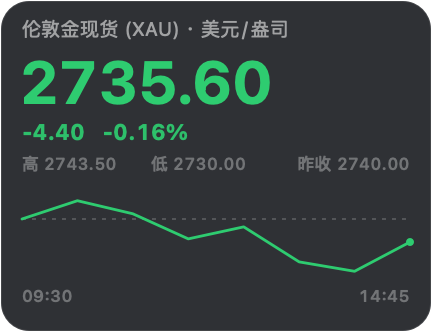
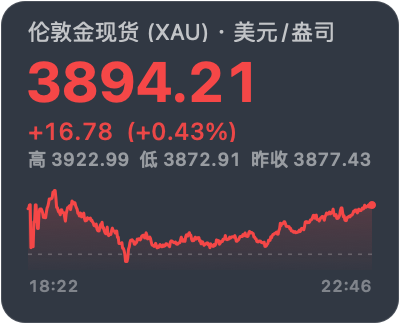
fix(release): restore Universal2 Mac DMG and live README previews

diff --git a/tools/render_previews.py b/tools/render_previews.py
@@ -1,16 +1,18 @@
-"""Render the production Mac view using explicitly illustrative data."""
+"""Render README previews from live quotes + today's real intraday points."""
 import os
 import sys
-import tempfile
 from pathlib import Path
 from types import SimpleNamespace
+
 REPO_ROOT = Path(__file__).resolve().parent.parent
 sys.path.insert(0, str(REPO_ROOT))
+
 from AppKit import NSApplication, NSBitmapImageFileTypePNG, NSBitmapImageRep, NSGraphicsContext, NSAffineTransform
 from Foundation import NSMakeRect
-from core.config import DEFAULT_CONFIG
-from core.pricing import QuoteData
-from core.storage import record_price_point
+from core.config import DEFAULT_CONFIG, get_app_data_dir
+from core.constants import SYMBOL_XAU_USD, SYMBOL_ZS_JCJ
+from core.pricing import default_engine
+from core.storage import apply_frozen_basis, load_today_points
 from mac.main import GoldCardView, calc_window_height
 
 
@@ -30,33 +32,34 @@ def render_to_png(view, output_path, scale=2):
         NSGraphicsContext.restoreGraphicsState()
     data = rep.representationUsingType_properties_(NSBitmapImageFileTypePNG, {})
     assert data.writeToFile_atomically_(str(output_path), True)
-    print(f"Example data / production view: {output_path} ({rep.pixelsWide()}x{rep.pixelsHigh()})")
+    print(f"Live preview: {output_path} ({rep.pixelsWide()}x{rep.pixelsHigh()})")
 
 
 def main():
+    # 使用本机真实分时目录，保证走势是当天实际采样
+    os.environ.pop("GOLDTICKER_DATA_DIR", None)
+    data_dir = get_app_data_dir()
     NSApplication.sharedApplication()
-    with tempfile.TemporaryDirectory(prefix="goldticker-previews-") as tmp:
-        os.environ["GOLDTICKER_DATA_DIR"] = tmp
-        import datetime as _dt
-        import time as _time
-        # 示例数据显式标注为非实时：采样时刻为今日 09:30 起每 45 分钟（本地时区）
-        base = _dt.datetime.combine(_dt.date.today(), _dt.time(9, 30))
-        start_ts = int(_time.mktime(base.timetuple())) * 1000
-        step_ms = 45 * 60 * 1000
-        for symbol, stem, values, prev in (
-            ("zs_jcj", "zs", [868, 869.2, 867.5, 870.1, 872.8, 871.2, 873, 871.5], 868),
-            ("xau_usd", "intl", [2740, 2743.5, 2741, 2736.2, 2738.5, 2731.8, 2730, 2735.6], 2740)):
-            for i, value in enumerate(values):
-                record_price_point(value, symbol, ts_ms=start_ts + i * step_ms)
-            quote = QuoteData(symbol=symbol, price=values[-1], prev_close=prev, open_price=values[1],
-                high=max(values), low=min(values), change=values[-1]-prev,
-                change_pct=(values[-1]-prev)/prev*100, time_str="14:45", source_id="example", source_name="Example data")
-            for lang in ("zh", "en"):
-                cfg = dict(DEFAULT_CONFIG, language=lang, symbol=symbol)
-                view = GoldCardView.alloc().initWithFrame_(NSMakeRect(0, 0, cfg["width"], calc_window_height(cfg)))
-                view.set_controller(SimpleNamespace(config=cfg, current_quote=quote))
-                output = REPO_ROOT / "docs" / f"preview-{stem}{'-en' if lang == 'en' else ''}.png"
-                render_to_png(view, output)
+
+    targets = (
+        (SYMBOL_ZS_JCJ, "zs"),
+        (SYMBOL_XAU_USD, "intl"),
+    )
+    for symbol, stem in targets:
+        pts = load_today_points(symbol, data_dir=data_dir)
+        if len(pts) < 2:
+            raise SystemExit(f"Need >=2 real intraday points for {symbol}, got {len(pts)} in {data_dir}")
+        quote = default_engine.get_quote(symbol)
+        if not quote or quote.price <= 0:
+            raise SystemExit(f"Failed to fetch live quote for {symbol}: {getattr(quote, 'error', None)}")
+        quote = apply_frozen_basis(quote, data_dir=data_dir)
+        for lang in ("zh", "en"):
+            cfg = dict(DEFAULT_CONFIG, language=lang, symbol=symbol, width=200, showChart=True, showDetails=True)
+            view = GoldCardView.alloc().initWithFrame_(NSMakeRect(0, 0, cfg["width"], calc_window_height(cfg)))
+            view.set_controller(SimpleNamespace(config=cfg, current_quote=quote))
+            output = REPO_ROOT / "docs" / f"preview-{stem}{'-en' if lang == 'en' else ''}.png"
+            render_to_png(view, output)
+            print(f"  {symbol}/{lang}: price={quote.price} points={len(pts)}")
 
 
 if __name__ == "__main__":

diff --git a/tools/build.py b/tools/build.py
@@ -34,8 +34,7 @@ def main():
     if mac:
         app = dist / "GoldTicker.app"
         subprocess.run(["codesign", "--force", "--deep", "--sign", "-", str(app)], check=True)
-        arch = platform.machine()
-        artifact = dist / f"GoldTicker-macOS-{arch}.dmg"
+        artifact = dist / "GoldTicker-macOS-Universal2.dmg"
         subprocess.run(["hdiutil", "create", "-volname", "GoldTicker", "-srcfolder", str(app), "-ov", "-format", "UDZO", str(artifact)], check=True)
     else:
         arch = "x64" if platform.machine().lower() in ("amd64", "x86_64") else platform.machine().lower()

diff --git a/core/product.py b/core/product.py
@@ -1,7 +1,7 @@
 """Product metadata and resources shared by source and frozen apps."""
 from pathlib import Path
 import sys
-VERSION = "1.0.0"
+VERSION = "1.0.3"
 PRODUCT_NAME = "GoldTicker"
 COPYRIGHT = "Copyright © 2026 realsuperj. MIT License."
 def resource_path(name="icon-1024.png"):

diff --git a/README.md b/README.md
@@ -20,11 +20,11 @@
 </p>
 
 <p align="center">
-  <img src="docs/preview-zs.png" width="380" alt="浙商银行积存金示例走势 (macOS 原生卡片)" />
-  <img src="docs/preview-intl.png" width="380" alt="国际现货黄金 XAU/USD (macOS 原生卡片)" />
+  <img src="docs/preview-zs.png" width="380" alt="浙商银行积存金实时卡片 (macOS)" />
+  <img src="docs/preview-intl.png" width="380" alt="国际现货黄金 XAU/USD 实时卡片 (macOS)" />
 </p>
 <p align="center">
-  <sub>浙商银行积存金（元/克）与国际现货黄金（美元/盎司）。使用正式 macOS 卡片渲染的示例数据，非实时行情截图。</sub>
+  <sub>浙商银行积存金（元/克）与国际现货黄金（美元/盎司）。正式 macOS 卡片 + 当日真实采样截图。</sub>
 </p>
 
 </div>
@@ -62,14 +62,14 @@ GoldTicker 严格保障金融数据的透明度与准确性，当前收录的 5 
 
 ### 方式一：直接下载发布包 (推荐)
 前往项目的 [Releases](https://github.com/realsuperj/gold-ticker/releases) 页面下载对应系统的最新发布包：
-- **macOS**：下载 `GoldTicker-macOS-<arch>.dmg`，双击拖入 `Applications` 即可运行；
+- **macOS**：下载 `GoldTicker-macOS-Universal2.dmg`（Intel / Apple Silicon），双击拖入 `Applications` 即可运行；
 - **Windows**：直接下载单个免安装绿色版 `GoldTicker.exe`（或 `GoldTicker-Windows-x64.zip`），双击即可运行，无任何外部依赖。
 
 ### 方式二：源码运行与本地安装
 
 源码统一使用 `python goldticker.py`（macOS 和 Windows），可从任意工作目录使用绝对路径启动。
 
-本地和 CI 均使用 `python tools/build.py` 与 `GoldTicker.spec`，产物自带 Python 及运行依赖。Mac 文件名标注实际架构（arm64 或 x86_64），不声明 Universal2。`python goldticker.py --smoke-test` 在临时配置目录运行离线原生界面冒烟。
+本地和 CI 均使用 `python tools/build.py` 与 `GoldTicker.spec`（`target_arch=universal2`），产物为 `GoldTicker-macOS-Universal2.dmg`。`python goldticker.py --smoke-test` 在临时配置目录运行离线原生界面冒烟。
 
 #### macOS 本地安装与启动
 ```bash

diff --git a/README_EN.md b/README_EN.md
@@ -20,11 +20,11 @@
 </p>
 
 <p align="center">
-  <img src="docs/preview-zs-en.png" width="380" alt="CZBank Gold Accumulation (macOS Native Card)" />
-  <img src="docs/preview-intl-en.png" width="380" alt="Spot Gold XAU/USD (macOS Native Card)" />
+  <img src="docs/preview-zs-en.png" width="380" alt="CZBank Gold Accumulation live card (macOS)" />
+  <img src="docs/preview-intl-en.png" width="380" alt="Spot Gold XAU/USD live card (macOS)" />
 </p>
 <p align="center">
-  <sub>CZBank Gold (CNY/g) and Spot Gold (USD/oz). Illustrative data rendered by the production macOS card; these are not live market screenshots.</sub>
+  <sub>CZBank Gold (CNY/g) and Spot Gold (USD/oz). Production macOS card screenshots with live quotes and today's real samples.</sub>
 </p>
 
 </div>
@@ -62,14 +62,14 @@ GoldTicker is committed to transparent financial data processing. The quote mode
 
 ### Method 1: Download Release Binaries (Recommended)
 Visit the [Releases](https://github.com/realsuperj/gold-ticker/releases) page to download pre-built packages:
-- **macOS**: Download `GoldTicker-macOS-<arch>.dmg`, double click and drag to `Applications`.
+- **macOS**: Download `GoldTicker-macOS-Universal2.dmg` (Intel / Apple Silicon), double click and drag to `Applications`.
 - **Windows**: Download standalone `GoldTicker.exe` (or `GoldTicker-Windows-x64.zip`), double click to run directly without dependencies.
 
 ### Method 2: Run from Source
 
 Both platforms start with `python goldticker.py`; absolute paths work from any directory.
 
-Local builds and CI both run `python tools/build.py` using `GoldTicker.spec`. Packages include Python and runtime dependencies. Mac artifacts identify the actual architecture (arm64 or x86_64), not Universal2. `python goldticker.py --smoke-test` runs an offline native UI smoke check with temporary configuration.
+Local builds and CI both run `python tools/build.py` using `GoldTicker.spec` (`target_arch=universal2`), producing `GoldTicker-macOS-Universal2.dmg`. `python goldticker.py --smoke-test` runs an offline native UI smoke check with temporary configuration.
 
 #### macOS Local Install & Launch
 ```bash
